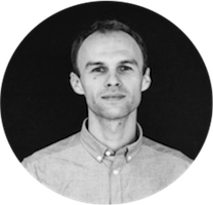
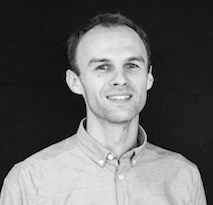
Changed timeline text and team pics

diff --git a/index.html b/index.html
@@ -311,7 +311,7 @@
                   <span class="fa-stack fa-4x">
                     <i class="fa fa-child fa-stack-1x text-primary"></i>
 				  </span>
-					<h3>Customized exercised</h3>
+					<h3>Customized exercises</h3>
                     <p class="text-muted">Our recommendation algorithm helps you find the right exercises to improve your balance</p>
 
                 </div>
@@ -460,7 +460,7 @@
 
                   </div>
                   <div class="timeline-body">
-					  <p class="text-muted">We were introduced by common friends in the start up community, as they thought we could be a great match. Alex was enthusiastic about his idea and Micol fell in love with it! Here Pendulum started.  </p>
+					  <p class="text-muted"> We met a tech meetup, where Alex introduced his idea and Micol fell in love with it! Here Pendulum started.  </p>
                   </div>
                 </div>
               </li>
